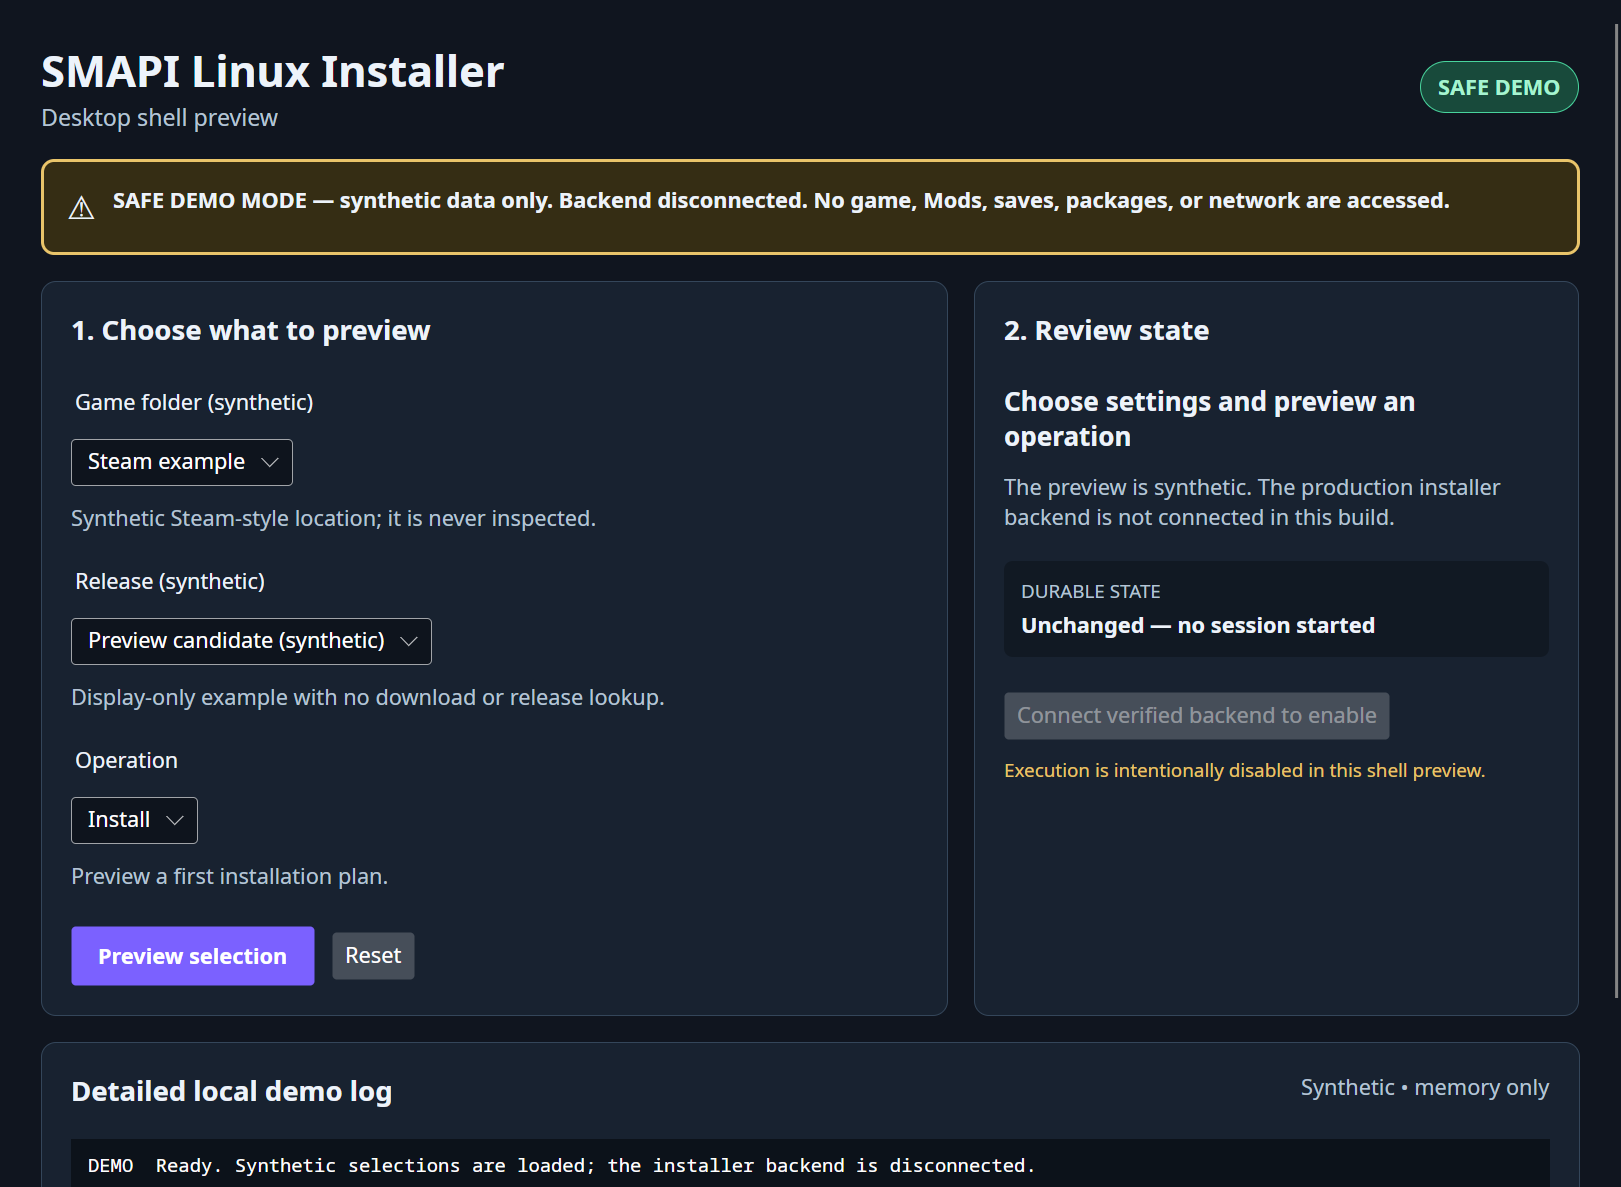
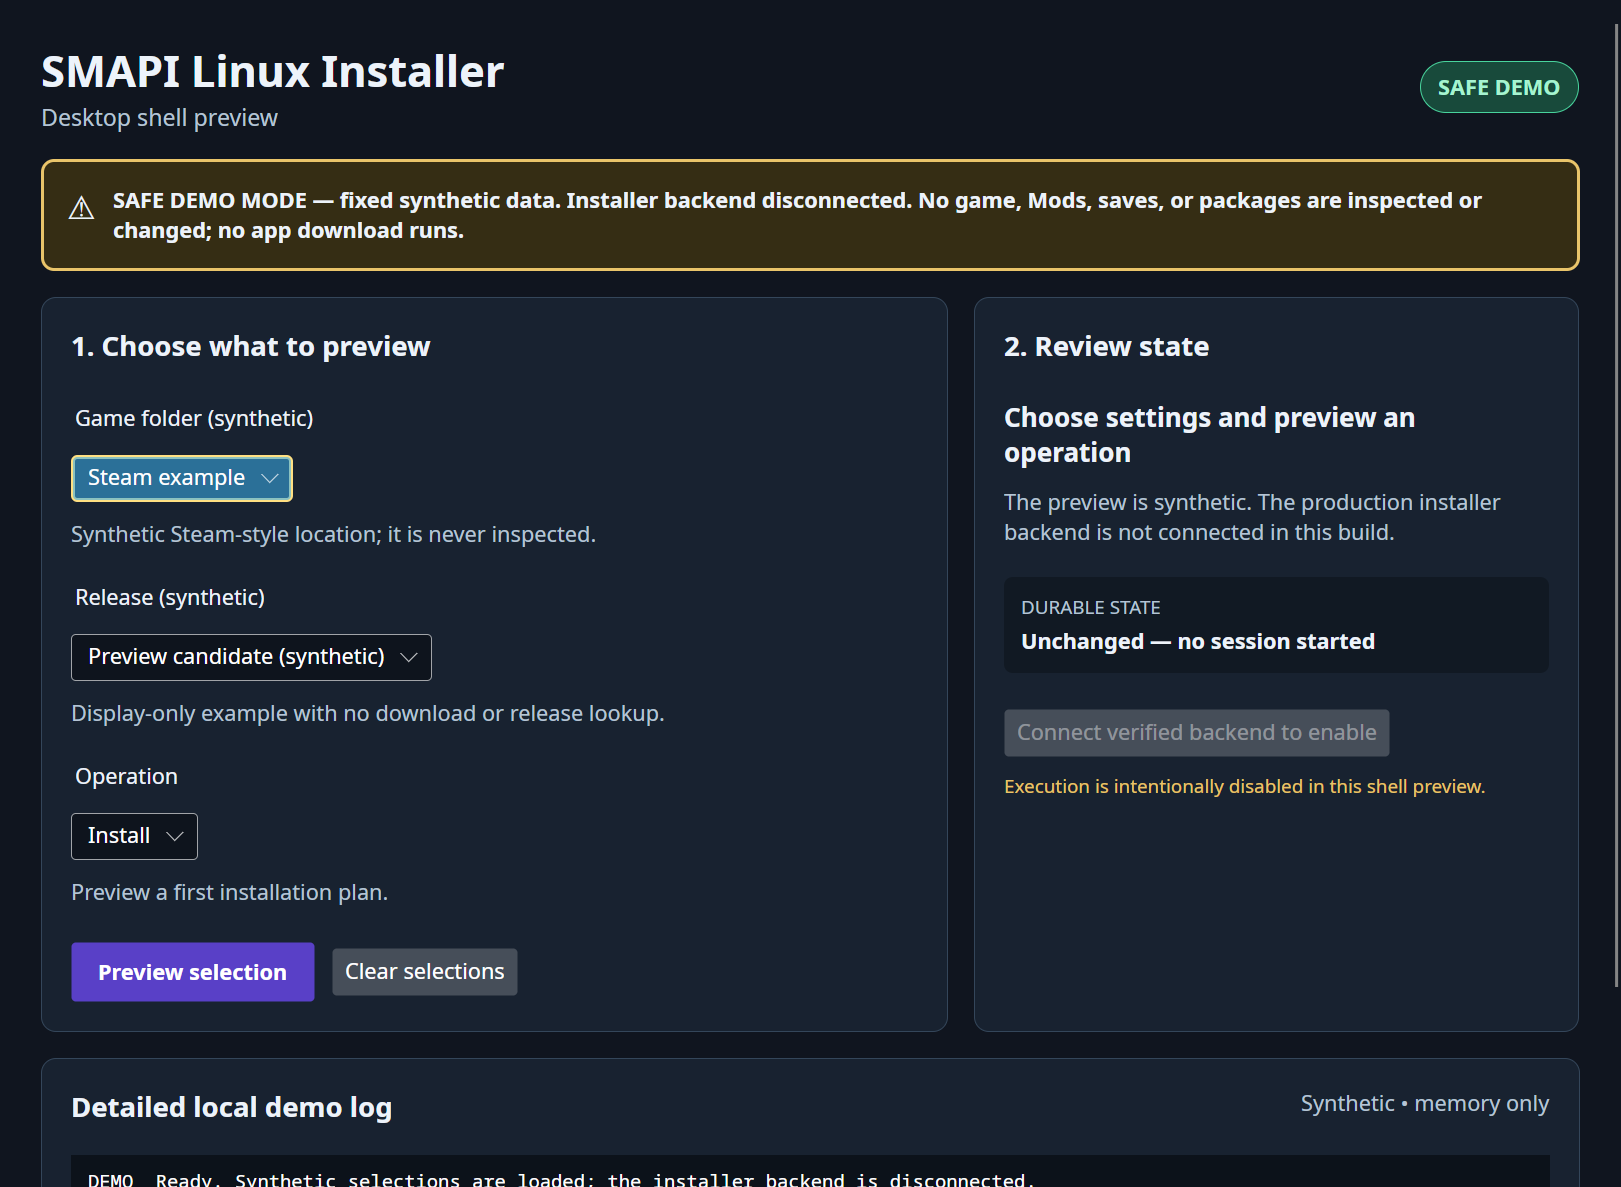
Document exact Linux GUI demo capture

Changed region(s): [[0.0308, 0.1559, 0.987, 0.8728], [0.0308, 0.904, 0.6477, 1.0], [0.802, 0.904, 0.9562, 0.9351]]

diff --git a/docs/screenshots/linux-installer-safe-demo.provenance.md b/docs/screenshots/linux-installer-safe-demo.provenance.md
@@ -1,0 +1,42 @@
+# Linux installer safe-demo screenshot provenance
+
+This record covers `linux-installer-safe-demo.png`, an illustrative capture of the disconnected graphical shell. It is not evidence that the final packaged graphical installer, download flow, or release workflow is complete.
+
+## Exact source and image
+
+- Source commit: `73bea44c7ba2e135f7afa537087330b8786f93f4`
+- Source tree: `1f1456d2e4ebebd66549b0c83202c02c816ba134`
+- Avalonia packages: `12.1.1`, as pinned by that tree
[1 lines of base64/hex data omitted]
+- PNG dimensions: 1621 × 1187 pixels
+- Capture time: 2026-08-29T12:52:14+08:00
+
+## Capture environment and method
+
+- Manjaro Linux, x86_64
+- .NET SDK 10.0.108 and host 10.0.8
+- Wayland desktop session using the supported XWayland path (`DISPLAY=:1`)
+- ImageMagick 7.1.2-23 and xdotool 4.20260303.1
+
+The exact source commit was built and launched from the repository root:
+
+```sh
+dotnet build src/SMAPI.Installer.Gui/SMAPI.Installer.Gui.csproj --configuration Release --no-restore
+dotnet src/SMAPI.Installer.Gui/bin/Release/net10.0/SMAPI.Installer.Gui.dll --demo
+```
+
+The SMAPI window was activated, its vertical page was returned to the top with upward wheel events, and ImageMagick captured only that X11 window:
+
+```sh
+xdotool search --name 'SMAPI Linux Installer'
+xdotool windowactivate 50331663
+xdotool mousemove --window 50331663 800 400 click --repeat 20 --delay 20 4
+import -window 50331663 docs/screenshots/linux-installer-safe-demo.png
+sha256sum docs/screenshots/linux-installer-safe-demo.png
+```
+
+The numeric window ID is session-specific; repeat captures must use the ID returned by `xdotool search`.
+
+## Privacy and accuracy review
+
+The final PNG was inspected at original resolution. It contains only the application window and fixed synthetic demo data. It contains no desktop background, username, real home/game/Mods/save path, mod list, save name, package identity, token, notification, or private fixture data. The visible state accurately shows the backend as disconnected, execution disabled, release/folder values synthetic, and the demo log memory-only. The warning is scoped to installer-controlled game/package behavior and app downloads; it does not claim that Avalonia or the desktop stack performs no normal runtime access.

diff --git a/docs/technical/linux-gui-shell.md b/docs/technical/linux-gui-shell.md
@@ -8,6 +8,8 @@ Avalonia and the operating-system desktop stack still make their normal infrastr
 
 ![The Linux installer shell showing synthetic selections, a safe-demo warning, disconnected state, disabled execution, and an in-memory demo log.](../screenshots/linux-installer-safe-demo.png)
 
+[Review the exact source, capture environment, checksum, and privacy record for this screenshot.](../screenshots/linux-installer-safe-demo.provenance.html)
+
 ## Build and run on Linux
 
 Install the .NET 10 SDK and the normal desktop libraries required by Avalonia for your distribution. From the repository root:
